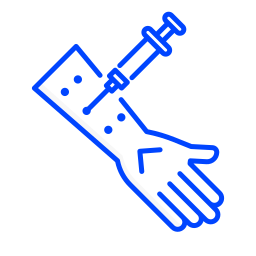
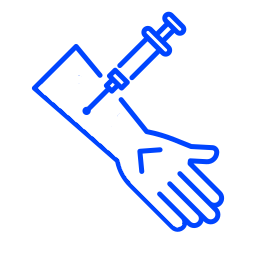
Adiciones menores a CSS

diff --git a/stylesheet.css b/stylesheet.css
@@ -2,7 +2,6 @@
 
 * {
     box-sizing: border-box;
-    color: rgb(40, 45, 49);
     margin: 0;
 }
 
@@ -40,20 +39,30 @@ img {
     border-radius: 30px;
 }
 
+li {
+    color: white;
+    text-decoration: none;
+}
+
 p {
     margin: 10px;
+    color: black;
+}
+
+a {
+    text-decoration: none;
 }
 
 /* Navbar */
 
 .navbar {
-    height: 75px;
+    height: 50px;
     display: flex;
     align-items: center;
     justify-content: center;
     position: sticky;
     top: 0;
-    background-color: rgb(252, 252, 252);
+    background-image: linear-gradient(to top, azure, rgb(184, 228, 255));
     z-index: 10;
 }
 
@@ -65,6 +74,14 @@ p {
 
 .navbar p {
     margin-right: 35px;
+}
+
+.navbar li {
+    list-style: none;
+}
+
+.navbar a {
+    text-justify: center;
 }
 
 /* LANDING PAGE */
@@ -109,6 +126,10 @@ p {
     align-items: center;
 }
 
+.texto-ozono h1 {
+    margin-top: 100px;
+}
+
 .fotos-ozono {
     width: 50%;
     display: flex;
@@ -128,11 +149,19 @@ p {
     margin-left: 50px;
 }
 
+.texto-ozono p {
+    margin-bottom: 50px;
+}
+
 /* Aplicaciones */
 
 .aplicaciones {
     padding: 10px;
     background-image: linear-gradient(to bottom right, azure, azure, azure, rgb(184, 228, 255));
+}
+
+.aplicaciones h1 {
+    margin-top: 40px;
 }
 
 .intro-aplicaciones {
@@ -189,6 +218,9 @@ p {
     display: block;
     flex: 3;
     bottom: 40%;
+    text-align: center;
+    left: 0;
+    right: 0;
 }
 
 .aplicacion.activa h4 {
@@ -224,12 +256,12 @@ p {
 
 .testimonios h1 {
     justify-self: center;
+    margin-top: 40px;
 }
 
 .testimonios h2 {
     color: white;
     margin-left: 50px;
-    text-align: start;
 }
 
 .testimonios h3{
@@ -243,33 +275,23 @@ p {
 .testimonios-cards {
     display: grid;
     margin: 20px;
-    grid-template-columns: 1fr 1fr 1fr;
+    grid-template-columns: 1fr 1fr;
 }
 
 .testimonio {
-    background-color: royalblue;
+    background-color: rgb(90, 163, 219);
     border-radius: 30px;
     margin: 20px;
     gap: 30px;
-    place-items: center;
 }
 
 .testimonio1 {
-    background-color: steelblue;
+    background-color: rgb(112, 158, 195);
     border-radius: 30px;
     margin: 20px;
     gap: 30px;
-    place-items: center;
 }
 
-.testimonio content {
-    margin: 20px;
-}
-
-.contenido-testimonios {
-    align-self: center;
-    text-align: right;
-}
 
 /* Certificados */
 
@@ -280,17 +302,24 @@ p {
 
 .certificados h1 {
     text-align: center;
+    margin-top: 40px;
+}
+
+.certificados p {
+    margin-bottom: 50px;
 }
 
 /* Metodos */
 
 .metodos {
     padding: 10px;
-    background-image: linear-gradient(to bottom left, rgb(184,228,255), azure, azure, azure);
+    background-image: url(img/seguridad.jpg);
 }
 
 .metodos h1 {
+    color: white;
     text-align: center;
+    margin-top: 40px;
 }
 
 .metodos1 {
@@ -330,11 +359,11 @@ p {
     margin-bottom: 20px;
     width: 180px;
     height: 180px;
-    
 }
 
 .metodo h3 {
     text-align: center;
+    color: white;
 }
 
 /* Seguridad */
@@ -346,4 +375,14 @@ p {
 
 .seguridad h1 {
     text-align: center;
+    margin-top: 40px;
 }
+
+.seguridad p {
+    margin-left: 250px;
+    margin-right: 250px;
+}
+
+/* PAGINA DOCTORA */
+
+/* PAGINA CIENCIA */

diff --git a/index.html b/index.html
@@ -10,9 +10,9 @@
         </head>
     <body>
 
-        <section>
+        <nav class="navbar" id="navbar">
             <ul>
-                <li><a href="#intro">Intro</a></li>
+                <li><a href="index.html">Intro</a></li>
                 <li><a href="#ozono">Que es?</a></li>
                 <li><a href="#aplicaciones">Aplicaciones</a></li>
                 <li><a href="#testimonios">Testimonios</a></li>
@@ -20,7 +20,7 @@
                 <li><a href="#metodos">Formas de aplicacion</a></li>
                 <li><a href="#seguridad">Seguridad</a></li>
             </ul>
-        </section>
+        </nav>
 
         <section id="intro" class="intro">
             <div class="fotos-intro">
@@ -35,6 +35,7 @@
                     Duis aute irure dolor in reprehenderit in voluptate velit esse cillum dolore eu 
                     fugiat nulla pariatur. Excepteur sint occaecat cupidatat non proident, sunt in 
                     culpa qui officia deserunt mollit anim id est laborum</p>
+                <a href="doctora.html">Click</a>
             </div>
         </section>
 
@@ -135,14 +136,6 @@
                         <h2>-Roberto Torres</h2>
                     </div>
                 </div>
-
-                <div class="testimonio1" id="testimonio1">
-                    <div class="contenido-testimonios" id="contenido-testimonios">
-                        <h3>"Después de investigar bastante sobre ozonoterapia, decidí confiar en la Dra. Estela por su experiencia y 
-                        profesionalismo. Los resultados han sido notorios y el seguimiento post-tratamiento es excelente."</h3>
-                        <h2>-Daniela Perales</h2>
-                    </div>
-                </div>
             </div>
         </section>
 
@@ -200,9 +193,9 @@
             <h1>Seguridad</h1>
             <p>A pesar de la enorme cantidad de beneficios que se estan descubriendo, hay ciertos posibles efectos adversos que pueden
             ocurrir, hasta ahora, la cifra de gente que sufre de dichos efectos adversos es de solamente el 0.0007%, uno de los mas bajos
-            la medicina.<br>
+            la medicina.<br><br>
             En general, es una terapia muy segura y efectiva, siempre y cuando se realice de forma segura, con medicos profesionales y en
-            dosis adecuadas.<br>
+            dosis adecuadas.<br><br>
             Hay varias condiciones medicas que pueden prevenir la aplicacion de dicho tratamiento, por lo que es importante dialogar con
             su medico antes de recibir cualquier dosis.</p>
         </section>

diff --git a/doctora.html b/doctora.html
@@ -8,6 +8,6 @@
             <link rel="stylesheet" href="stylesheet.css">
         </head>
     <body>
-
+        <h1>Juar juar</h1>
     </body>
 </html>
